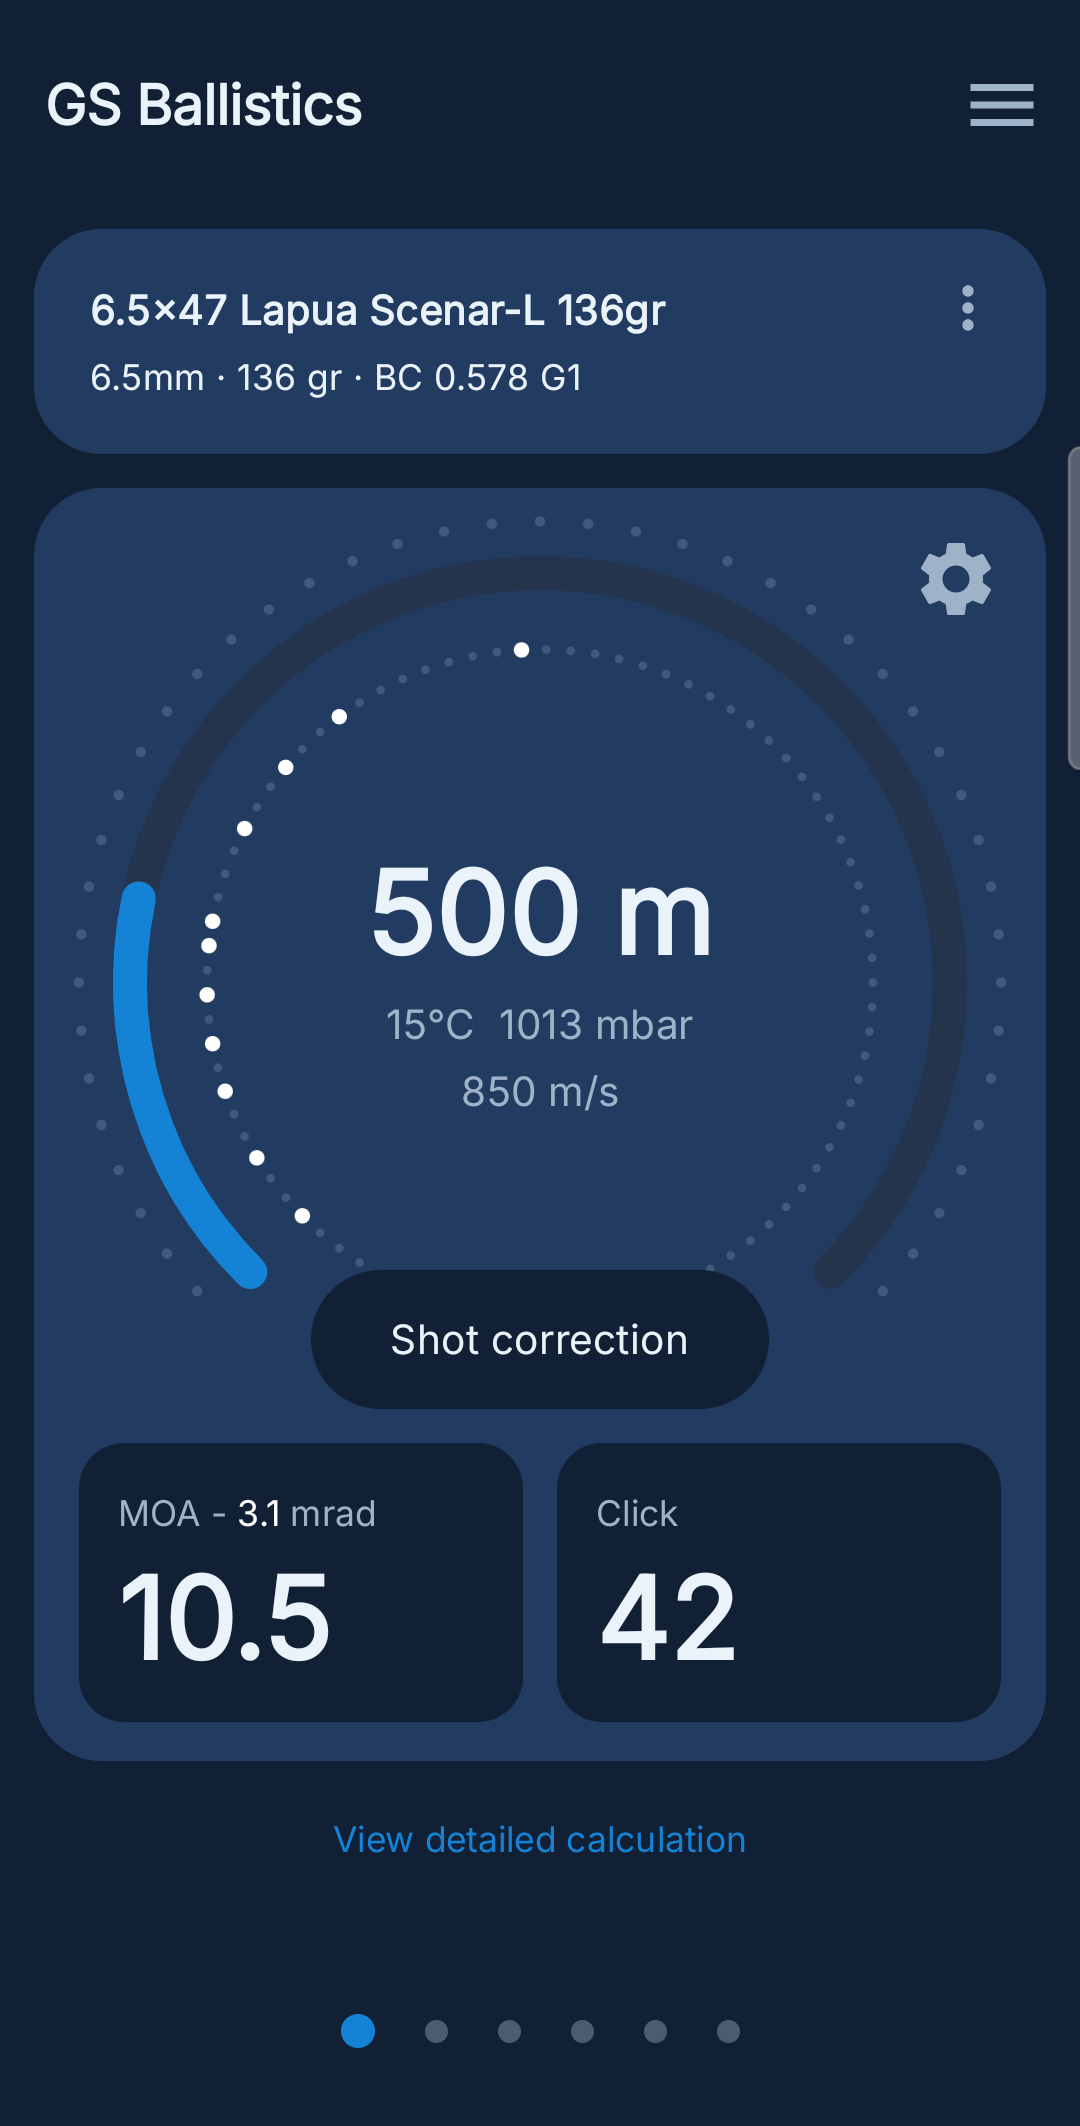
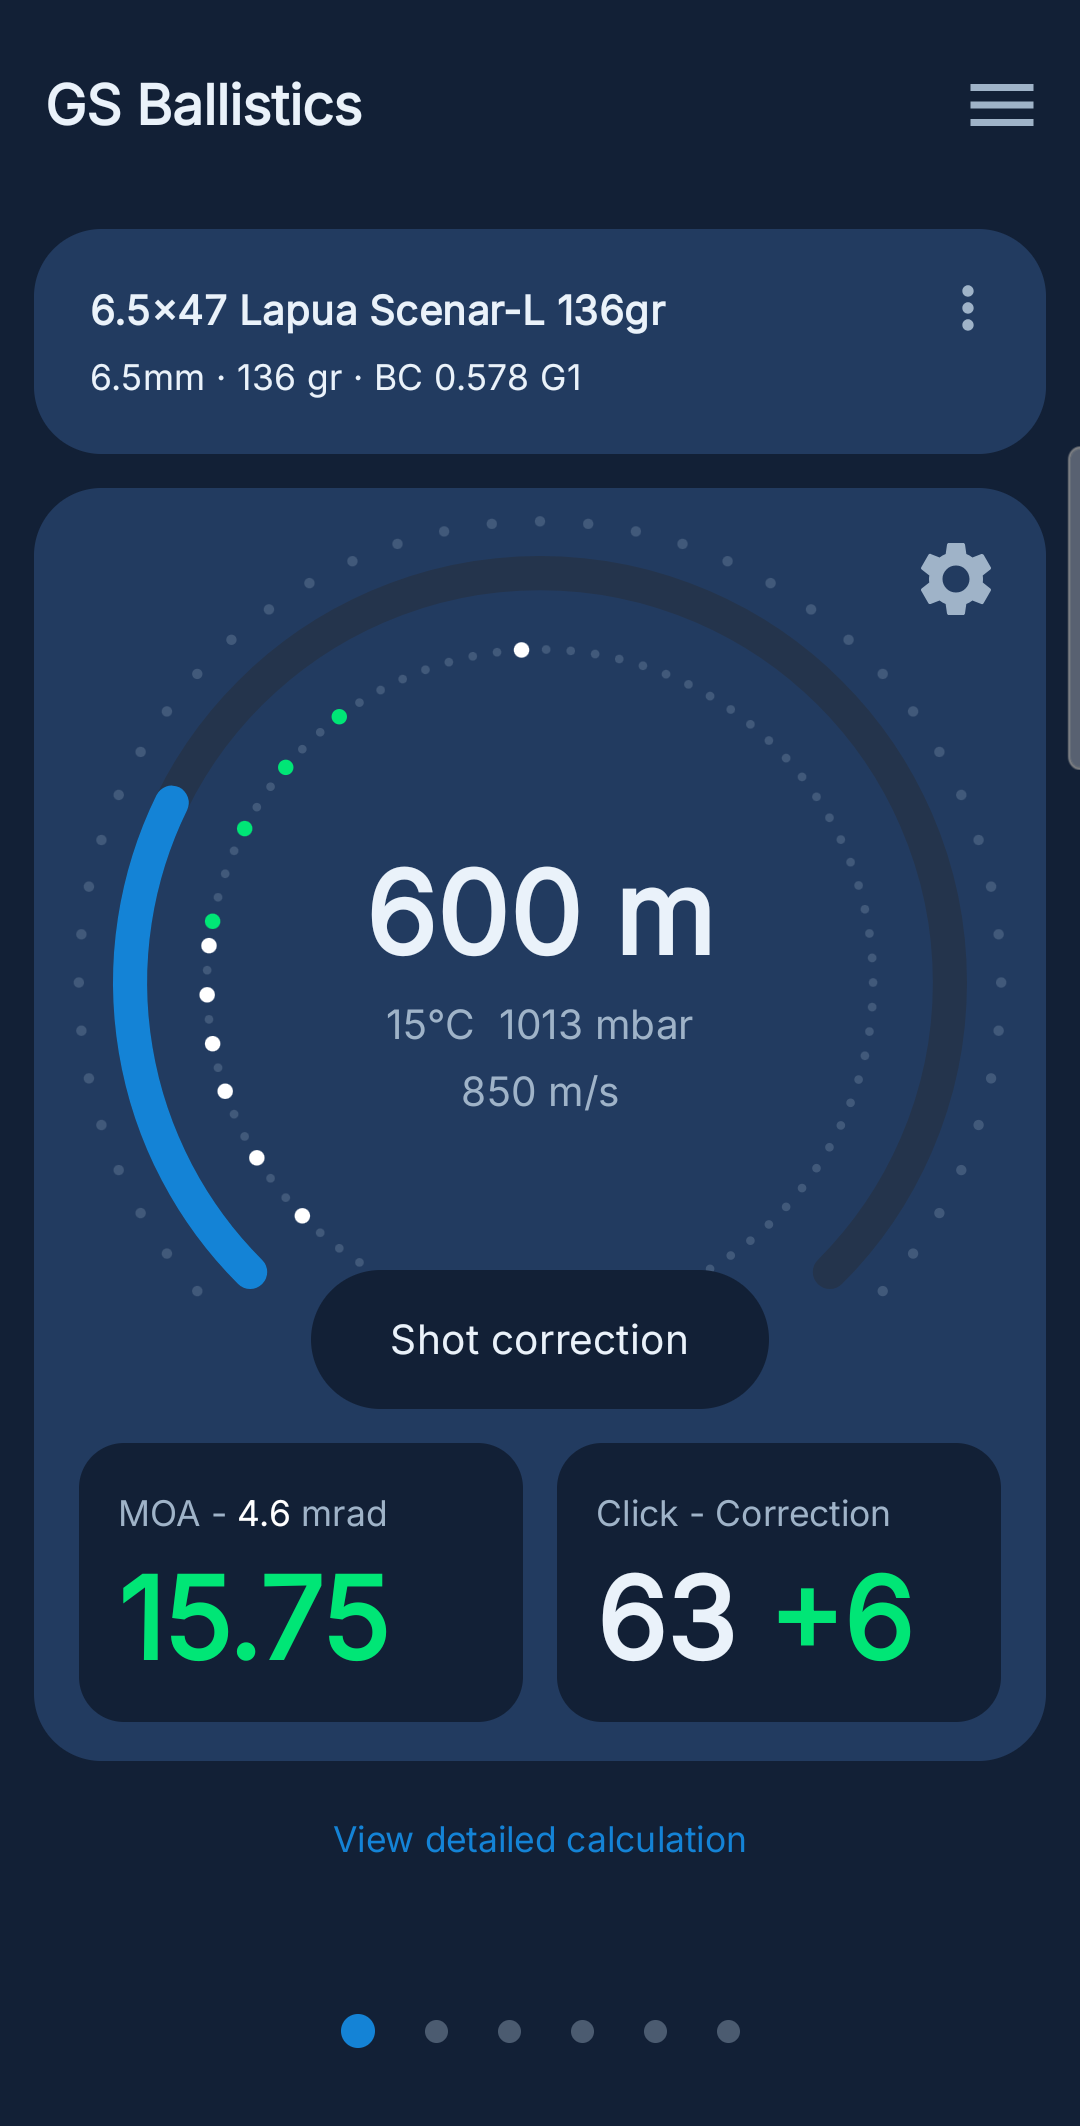
Update GS Ballistics screenshots with real field corrections, remove private repo link
Replaces the home/table screenshots with ones showing actual verified
field corrections, adds a calculated-vs-real chart and the ammo list
screenshot, and drops the GitHub repo CTA (the repo is private).

diff --git a/it/gs-ballistics-case-study.html b/it/gs-ballistics-case-study.html
@@ -119,9 +119,10 @@
 							<h1 class="intro-name text-center mb-4">GS Ballistics</h1>
 
 							<div class="row justify-content-center g-3 mb-4">
-								<div class="col-6 col-md-4"><img class="img-fluid rounded" src="../assets/images/projects/gs-ballistics/home.png" alt="Schermata Home con cerchio distanza"></div>
-								<div class="col-6 col-md-4"><img class="img-fluid rounded" src="../assets/images/projects/gs-ballistics/ballistic-table.png" alt="Tabella balistica"></div>
-								<div class="col-6 col-md-4 d-none d-md-block"><img class="img-fluid rounded" src="../assets/images/projects/gs-ballistics/settings.png" alt="Impostazioni e backup"></div>
+								<div class="col-6 col-md-3"><img class="img-fluid rounded" src="../assets/images/projects/gs-ballistics/home.png" alt="Schermata Home con cerchio distanza"></div>
+								<div class="col-6 col-md-3"><img class="img-fluid rounded" src="../assets/images/projects/gs-ballistics/ballistic-table.png" alt="Tabella balistica"></div>
+								<div class="col-6 col-md-3"><img class="img-fluid rounded" src="../assets/images/projects/gs-ballistics/chart.png" alt="Grafico alzo calcolato vs reale"></div>
+								<div class="col-6 col-md-3"><img class="img-fluid rounded" src="../assets/images/projects/gs-ballistics/ammo-list.png" alt="Elenco munizioni"></div>
 							</div>
 
 							<div class="case-study-intro">
@@ -139,12 +140,6 @@
 							</div>
 
 						</div><!--//intro-holder-->
-
-						<div class="section-cta text-center mt-4">
-							<a class="btn btn-primary" href="https://github.com/Giorgio160586/GS-Ballistics">Repository GitHub<svg xmlns="http://www.w3.org/2000/svg" width="24" height="24" fill="currentColor" class="bi bi-arrow-right-short" viewBox="0 0 16 16">
-								<path d="M8 0C3.58 0 0 3.58 0 8c0 3.54 2.29 6.53 5.47 7.59.4.07.55-.17.55-.38 0-.19-.01-.82-.01-1.49-2.01.37-2.53-.49-2.69-.94-.09-.23-.48-.94-.82-1.13-.28-.15-.68-.52-.01-.53.63-.01 1.08.58 1.23.82.72 1.21 1.87.87 2.33.66.07-.52.28-.87.51-1.07-1.78-.2-3.64-.89-3.64-3.95 0-.87.31-1.59.82-2.15-.08-.2-.36-1.02.08-2.12 0 0 .67-.21 2.2.82a7.65 7.65 0 0 1 2-.27c.68 0 1.36.09 2 .27 1.53-1.04 2.2-.82 2.2-.82.44 1.1.16 1.92.08 2.12.51.56.82 1.27.82 2.15 0 3.07-1.87 3.75-3.65 3.95.29.25.54.73.54 1.48 0 1.07-.01 1.93-.01 2.2 0 .21.15.46.55.38A8.013 8.013 0 0 0 16 8c0-4.42-3.58-8-8-8z"/>
-							</svg></a>
-						</div>
 
 					</section><!--//page-intro-section-->
 

diff --git a/en/gs-ballistics-case-study.html b/en/gs-ballistics-case-study.html
@@ -119,9 +119,10 @@
 							<h1 class="intro-name text-center mb-4">GS Ballistics</h1>
 
 							<div class="row justify-content-center g-3 mb-4">
-								<div class="col-6 col-md-4"><img class="img-fluid rounded" src="../assets/images/projects/gs-ballistics/home.png" alt="Home screen with distance dial"></div>
-								<div class="col-6 col-md-4"><img class="img-fluid rounded" src="../assets/images/projects/gs-ballistics/ballistic-table.png" alt="Ballistic table"></div>
-								<div class="col-6 col-md-4 d-none d-md-block"><img class="img-fluid rounded" src="../assets/images/projects/gs-ballistics/settings.png" alt="Settings and backup"></div>
+								<div class="col-6 col-md-3"><img class="img-fluid rounded" src="../assets/images/projects/gs-ballistics/home.png" alt="Home screen with distance dial"></div>
+								<div class="col-6 col-md-3"><img class="img-fluid rounded" src="../assets/images/projects/gs-ballistics/ballistic-table.png" alt="Ballistic table"></div>
+								<div class="col-6 col-md-3"><img class="img-fluid rounded" src="../assets/images/projects/gs-ballistics/chart.png" alt="Calculated vs real elevation chart"></div>
+								<div class="col-6 col-md-3"><img class="img-fluid rounded" src="../assets/images/projects/gs-ballistics/ammo-list.png" alt="Ammo list"></div>
 							</div>
 
 							<div class="case-study-intro">
@@ -139,12 +140,6 @@
 							</div>
 
 						</div><!--//intro-holder-->
-
-						<div class="section-cta text-center mt-4">
-							<a class="btn btn-primary" href="https://github.com/Giorgio160586/GS-Ballistics">GitHub Repository<svg xmlns="http://www.w3.org/2000/svg" width="24" height="24" fill="currentColor" class="bi bi-arrow-right-short" viewBox="0 0 16 16">
-								<path d="M8 0C3.58 0 0 3.58 0 8c0 3.54 2.29 6.53 5.47 7.59.4.07.55-.17.55-.38 0-.19-.01-.82-.01-1.49-2.01.37-2.53-.49-2.69-.94-.09-.23-.48-.94-.82-1.13-.28-.15-.68-.52-.01-.53.63-.01 1.08.58 1.23.82.72 1.21 1.87.87 2.33.66.07-.52.28-.87.51-1.07-1.78-.2-3.64-.89-3.64-3.95 0-.87.31-1.59.82-2.15-.08-.2-.36-1.02.08-2.12 0 0 .67-.21 2.2.82a7.65 7.65 0 0 1 2-.27c.68 0 1.36.09 2 .27 1.53-1.04 2.2-.82 2.2-.82.44 1.1.16 1.92.08 2.12.51.56.82 1.27.82 2.15 0 3.07-1.87 3.75-3.65 3.95.29.25.54.73.54 1.48 0 1.07-.01 1.93-.01 2.2 0 .21.15.46.55.38A8.013 8.013 0 0 0 16 8c0-4.42-3.58-8-8-8z"/>
-							</svg></a>
-						</div>
 
 					</section><!--//page-intro-section-->
 
